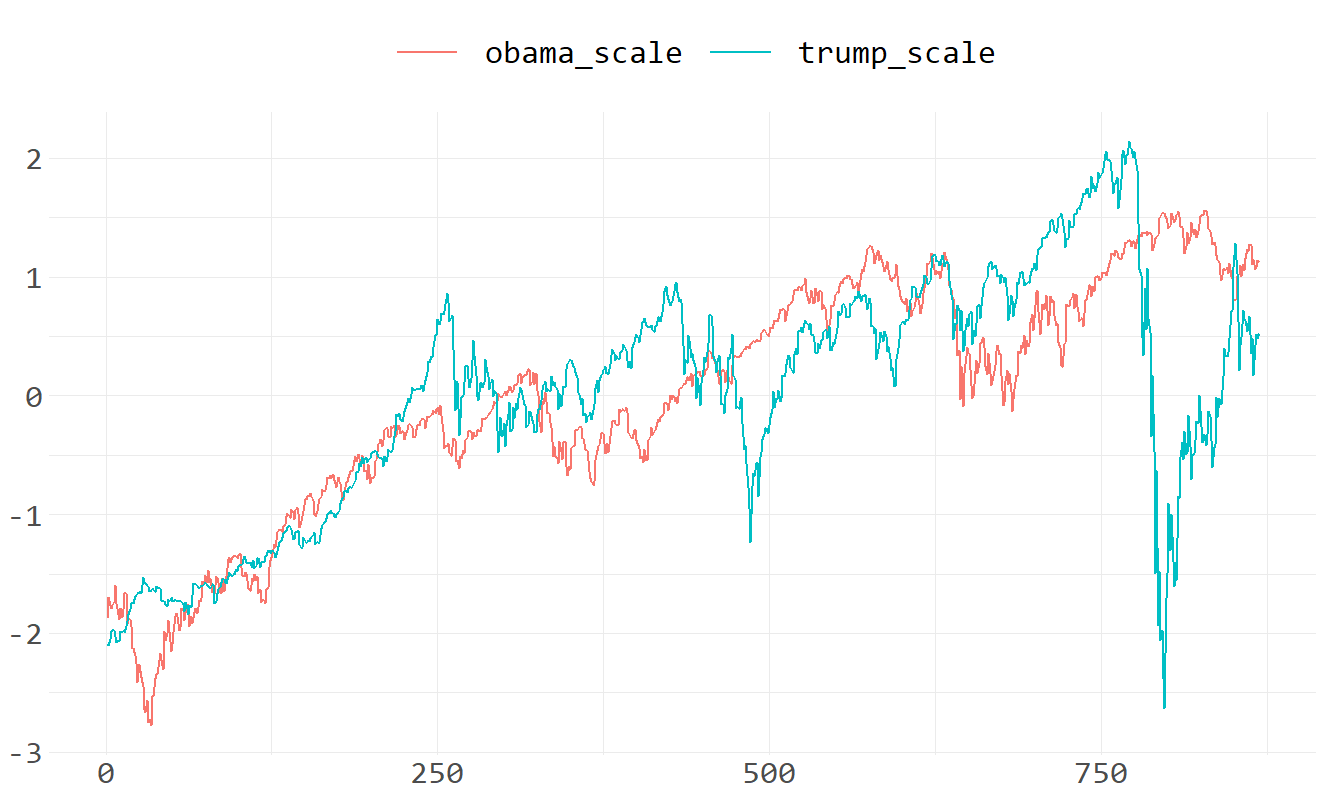
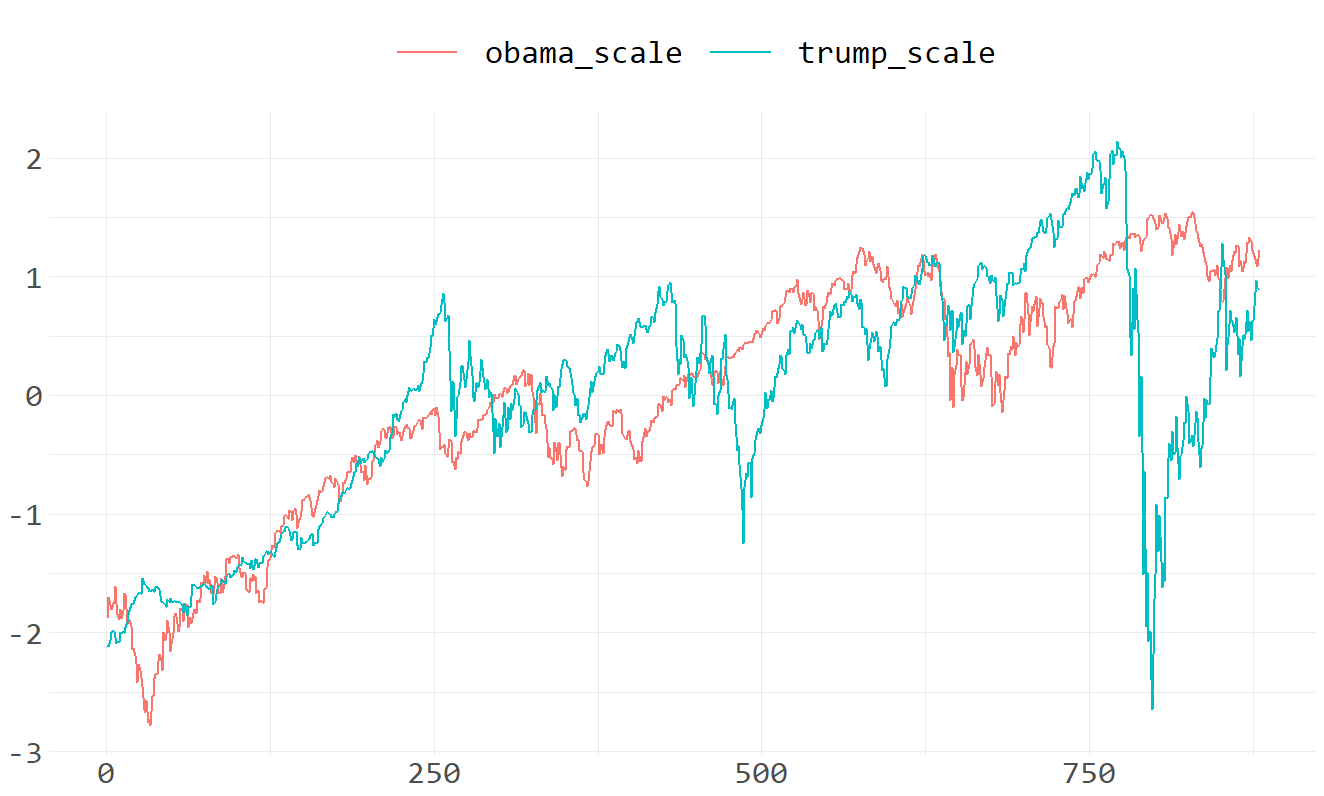
Add files via upload

diff --git a/thedowjonesindustrialaverage.md b/thedowjonesindustrialaverage.md
@@ -1,7 +1,7 @@
 The Dow Jones Industrial Average
 ================
 <https://am-consulting.co.jp> , <https://twitter.com/amc_corporation>
-2020-07-04 10:03:10 JST
+2020-07-19 16:41:58 JST
 
     $quantmod
     [1]  0  4 17
@@ -56,12 +56,12 @@ tail(dji0)
 
 ``` 
            Date DJI.Open DJI.High  DJI.Low DJI.Close DJI.Volume DJI.Adjusted
-3394 2020-06-25 25365.22 25769.61 25209.79  25745.60  384560000     25745.60
-3395 2020-06-26 25641.69 25641.69 24971.03  25015.55  640860000     25015.55
-3396 2020-06-29 25152.45 25601.15 25096.16  25595.80  378070000     25595.80
-3397 2020-06-30 25512.43 25905.38 25475.14  25812.88  410780000     25812.88
-3398 2020-07-01 25879.38 26019.31 25713.61  25734.97  373180000     25734.97
-3399 2020-07-02 25936.45 26204.41 25778.12  25827.36  349130000     25827.36
+3404 2020-07-10 25690.35 26101.32 25637.50  26075.30  338170000     26075.30
+3405 2020-07-13 26225.07 26639.09 26044.23  26085.80  425320000     26085.80
+3406 2020-07-14 26044.17 26690.52 25994.98  26642.59  401640000     26642.59
+3407 2020-07-15 27009.81 27071.33 26692.48  26870.10  384900000     26870.10
+3408 2020-07-16 26746.57 26879.16 26590.01  26734.71  287330000     26734.71
+3409 2020-07-17 26774.62 26808.43 26619.88  26671.95  296460000     26671.95
 ```
 
 ## Adjusted price
@@ -73,12 +73,12 @@ tail(dji)
 
 ``` 
            Date DJI.Adjusted
-3394 2020-06-25     25745.60
-3395 2020-06-26     25015.55
-3396 2020-06-29     25595.80
-3397 2020-06-30     25812.88
-3398 2020-07-01     25734.97
-3399 2020-07-02     25827.36
+3404 2020-07-10     26075.30
+3405 2020-07-13     26085.80
+3406 2020-07-14     26642.59
+3407 2020-07-15     26870.10
+3408 2020-07-16     26734.71
+3409 2020-07-17     26671.95
 ```
 
 ## Highest price
@@ -167,14 +167,14 @@ trump %>% {rbind(head(.,1),tail(.,1))}
 ``` 
           Date DJI.Adjusted
 1   2017-01-20     19827.25
-869 2020-07-02     25827.36
+879 2020-07-17     26671.95
 ```
 
 ``` r
 trump[,2] %>% {(tail(.,1)/head(.,1)-1)*100} %>% signif(7) %>% paste0('%')
 ```
 
-    [1] "30.26193%"
+    [1] "34.52168%"
 
 #### Percentage change from November 9, 2016
 
@@ -186,14 +186,14 @@ trump20161109
 ``` 
         Date DJI.Adjusted
 1 2016-11-09     18589.69
-2 2020-07-02     25827.36
+2 2020-07-17     26671.95
 ```
 
 ``` r
 trump20161109[,2] %>% {(tail(.,1)/head(.,1)-1)*100} %>% signif(7) %>% paste0('%')
 ```
 
-    [1] "38.93379%"
+    [1] "43.47711%"
 
 ## Compare difference between Obama and Trump
 
@@ -282,12 +282,12 @@ tail(trump)
 
 ``` 
            Date DJI.Adjusted change up down even
-3394 2020-06-25     25745.60   1.18  1    0    0
-3395 2020-06-26     25015.55  -2.84  0    1    0
-3396 2020-06-29     25595.80   2.32  1    0    0
-3397 2020-06-30     25812.88   0.85  1    0    0
-3398 2020-07-01     25734.97  -0.30  0    1    0
-3399 2020-07-02     25827.36   0.36  1    0    0
+3404 2020-07-10     26075.30   1.44  1    0    0
+3405 2020-07-13     26085.80   0.04  1    0    0
+3406 2020-07-14     26642.59   2.13  1    0    0
+3407 2020-07-15     26870.10   0.85  1    0    0
+3408 2020-07-16     26734.71  -0.50  0    1    0
+3409 2020-07-17     26671.95  -0.23  0    1    0
 ```
 
 ###### Highest appreciation rate
@@ -367,8 +367,8 @@ tableObservation
 ``` 
         Up Down Total
 Obama 1080  925  2005
-Trump  483  380   863
-Total 1563 1305  2868
+Trump  489  384   873
+Total 1569 1309  2878
 ```
 
 ``` r
@@ -378,8 +378,8 @@ tableExpectation
 ``` 
         Up Down Total
 Obama 1093  912  2005
-Trump  470  393   863
-Total 1563 1305  2868
+Trump  476  397   873
+Total 1569 1309  2878
 ```
 
 ``` r
@@ -391,8 +391,8 @@ cross_data0
   POTUS Change frequency
 1 Obama     Up      1080
 2 Obama   Down       925
-3 Trump     Up       483
-4 Trump   Down       380
+3 Trump     Up       489
+4 Trump   Down       384
 ```
 
 ``` r
@@ -404,7 +404,7 @@ cross_data
        Change
 POTUS   Down   Up
   Obama  925 1080
-  Trump  380  483
+  Trump  384  489
 ```
 
 ``` r
@@ -416,7 +416,7 @@ chisq.test(cross_data,correct = F)
     Pearson's Chi-squared test
 
 data:  cross_data
-X-squared = 1.0752, df = 1, p-value = 0.2998
+X-squared = 1.1321, df = 1, p-value = 0.2873
 ```
 
 -----
